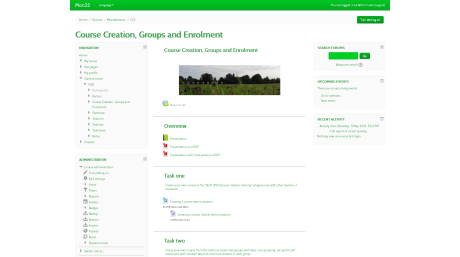
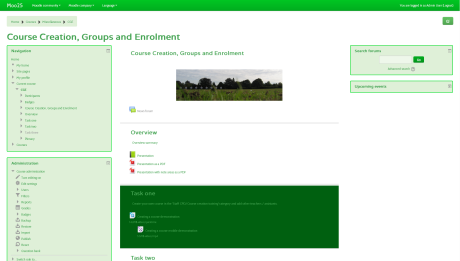
V2.5.0.1

diff --git a/style/custom.css b/style/custom.css
@@ -1,4 +1,4 @@
-/* mutant_banjo Custom CSS
+/* Mutant Banjo Custom CSS
 -------------------------*/
 a.logo {
     background: url([[setting:logo]]) no-repeat 0 0;
@@ -13,6 +13,15 @@ a.logo {
 .dir-rtl a.logo {
     background: url([[setting:logo]]) no-repeat 100% 0;
     display: block;
+    float: right;
+}
+
+/* Negate core style so that browser renders drop target correctly. */
+.empty-region-side-pre #block-region-side-pre, .empty-region-side-post #block-region-side-post {
+    display: block;
+}
+
+.dir-rtl .breadcrumb-nav {
     float: right;
 }
 

diff --git a/settings.php b/settings.php
@@ -46,7 +46,7 @@ if ($ADMIN->fulltree) {
         'g' => get_string('red', 'theme_mutant_banjo')
     );
     $setting = new admin_setting_sliderselect($name, $title, $description, $default, $choices, $noslidermode,
-                    'javascript', 460, 257, 'mutant_banjo', 'colourswatch', 'colourswatch');
+                    'javascript', 460, 261, 'mutant_banjo', 'colourswatch', 'colourswatch');
     $setting->set_updatedcallback('theme_reset_all_caches');
     $settings->add($setting);
 

diff --git a/Readme.md b/Readme.md
@@ -6,7 +6,7 @@ Required version of Moodle
 ==========================
 This version works with Moodle version 2013051400.05 release 2.5 (Build: 20130614) and above until the next release.
 
-It is currently in 'BETA' so must NOT be used on a production server.  To progress to 'STABLE' I need feedback from
+Mutant Banjo is currently in 'BETA' so must NOT be used on a production server.  To progress to 'STABLE' I need feedback from
 you that everything is ok.
 
 Please ensure that your hardware and software complies with 'Requirements' in 'Installing Moodle' on
@@ -88,6 +88,8 @@ Future Improvements
 ===================
 1.  Convert slider setting jQuery in YUI code to YUI Modules and add a constructor so that the current set of files can be reduced
     down to one and remove the need for jQuery to extract initialisation information from the mark-up.
+2.  Add more fonts.
+3.  Have a footer block area as I'm currently experimenting with in the Shoelace theme.
 
 Version Information
 ===================
